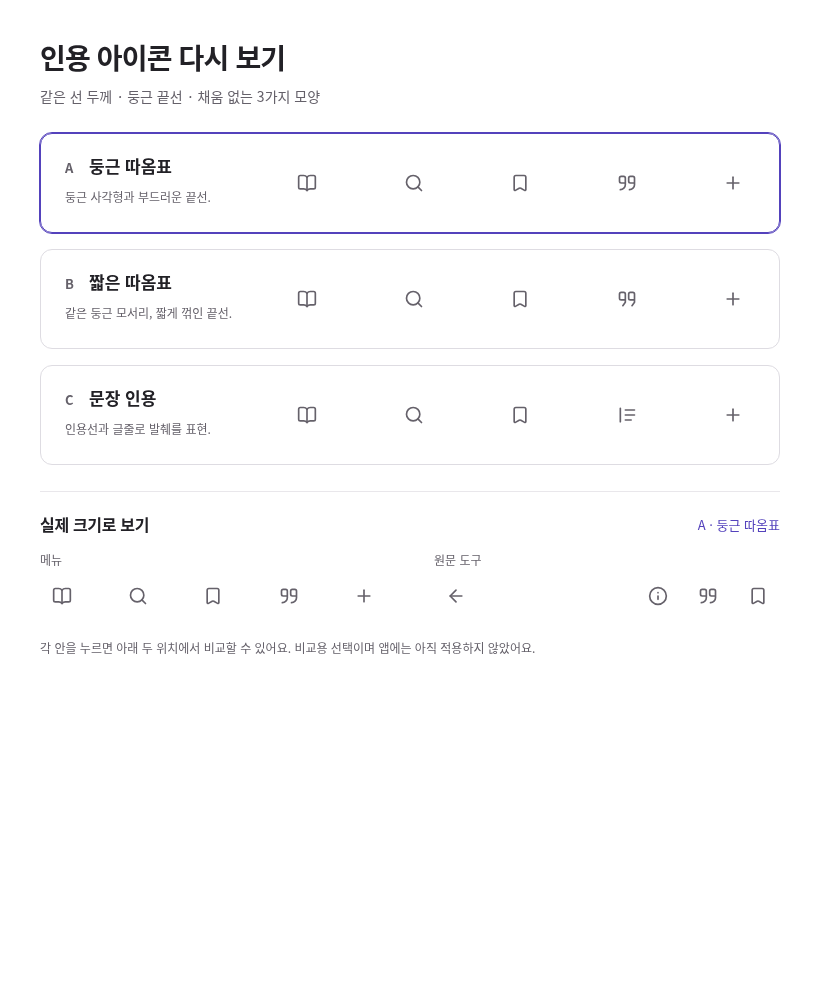
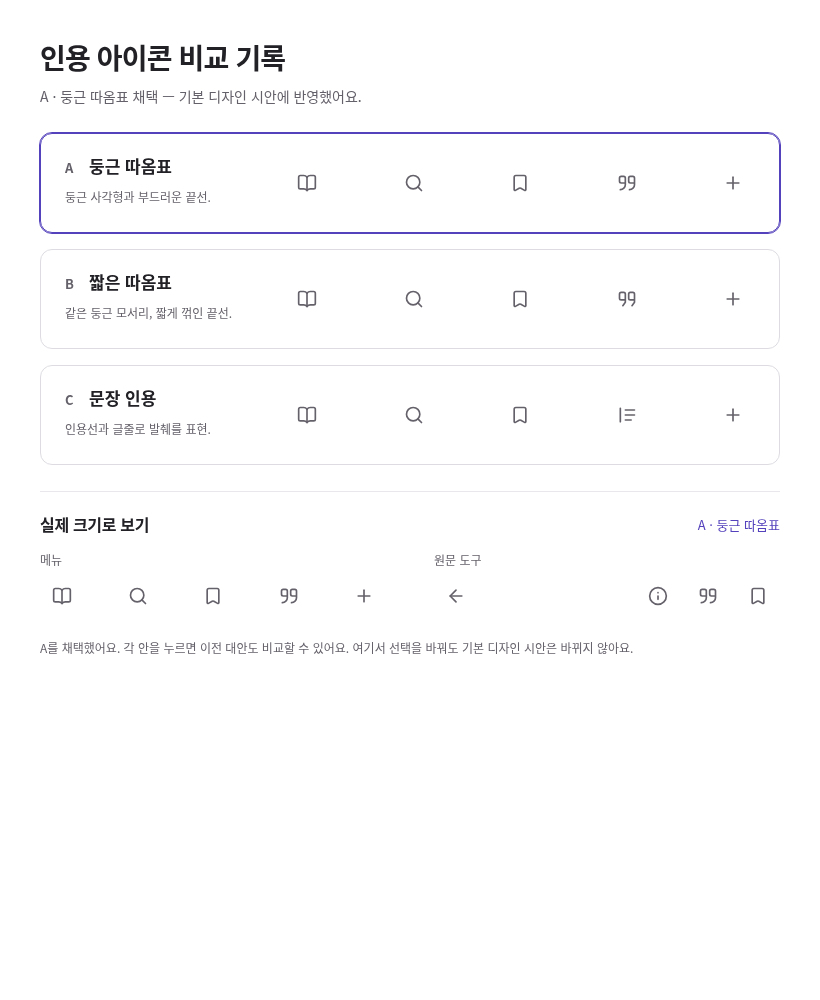
Apply the approved rounded quote across the design preview

Changed region(s): [[0.061, 0.62, 0.7622, 0.651], [0.061, 0.031, 0.4268, 0.124]]

diff --git a/assets/design-social/ui.js b/assets/design-social/ui.js
@@ -7,7 +7,7 @@
   const m = { concept: concepts.includes(q.get('concept')) ? q.get('concept') : 'color', view: q.get('view') === 'reader' ? 'reader' : 'feed', state: states.includes(q.get('state')) ? q.get('state') : 'normal', query: '', origin: '', topic: '', tab: 'all', saved: new Set(), excerpts: [], expanded: new Set(), sourceId: data.sources[0].id, peekId: data.sources[0].id, selected: data.excerpt, note: '', excerptTopic: '', scroll: 0, returnId: '', composing: false, filtersOpen: false, excerptOpen: false, sourceOpen: false, sourceScroll: 0, peekOpen: false, panelScroll: 0, panelOpener: '', peekOpener: '' };
   const $ = s => document.querySelector(s);
   const esc = s => String(s ?? '').replace(/[&<>"']/g, c => ({ '&': '&amp;', '<': '&lt;', '>': '&gt;', '"': '&quot;', "'": '&#39;' }[c]));
-  // Lucide 1.51.0, fixed source and ISC/Feather MIT notices: vendor/lucide/.
+  // Lucide 1.51.0 except Haedo's approved quote A; provenance: vendor/lucide/.
   const iconPaths = {
     book: '<path d="M12 5v16" /><path d="M20.001 19A2 2 0 0022 17V5a2 2 0 00-1.999-2L16 3.002A5 5 0 0012 5a5 5 0 00-4-2H4a2 2 0 00-2 2v12a2 2 0 001.999 2H8a5 5 0 014 2 5 5 0 014-2z" />',
     search: '<path d="m21 21-4.34-4.34" /><circle cx="11" cy="11" r="8" />',
@@ -15,7 +15,7 @@
     link: '<path d="M10 13a5 5 0 0 0 7.54.54l3-3a5 5 0 0 0-7.07-7.07l-1.72 1.71" /><path d="M14 11a5 5 0 0 0-7.54-.54l-3 3a5 5 0 0 0 7.07 7.07l1.71-1.71" />',
     plus: '<path d="M5 12h14" /><path d="M12 5v14" />',
     back: '<path d="m12 19-7-7 7-7" /><path d="M19 12H5" />',
-    quote: '<path d="M16 3a2 2 0 0 0-2 2v6a2 2 0 0 0 2 2 1 1 0 0 1 1 1v1a2 2 0 0 1-2 2 1 1 0 0 0-1 1v2a1 1 0 0 0 1 1 6 6 0 0 0 6-6V5a2 2 0 0 0-2-2z" /><path d="M5 3a2 2 0 0 0-2 2v6a2 2 0 0 0 2 2 1 1 0 0 1 1 1v1a2 2 0 0 1-2 2 1 1 0 0 0-1 1v2a1 1 0 0 0 1 1 6 6 0 0 0 6-6V5a2 2 0 0 0-2-2z" />',
+    quote: '<path d="M10 12H5a2 2 0 0 1-2-2V6a2 2 0 0 1 2-2h3a2 2 0 0 1 2 2v8a6 6 0 0 1-6 6M21 12h-5a2 2 0 0 1-2-2V6a2 2 0 0 1 2-2h3a2 2 0 0 1 2 2v8a6 6 0 0 1-6 6"/>',
     arrow: '<path d="M5 12h14" /><path d="m12 5 7 7-7 7" />',
     close: '<path d="M18 6 6 18" /><path d="m6 6 12 12" />',
     filter: '<path d="M10 5H3" /><path d="M12 19H3" /><path d="M14 3v4" /><path d="M16 17v4" /><path d="M21 12h-9" /><path d="M21 19h-5" /><path d="M21 5h-7" /><path d="M8 10v4" /><path d="M8 12H3" />',

diff --git a/quote-sample.html b/quote-sample.html
@@ -11,13 +11,13 @@
 </head>
 <body data-concept="thread">
   <main class="q-board">
-    <header class="q-heading"><h1>인용 아이콘 다시 보기</h1><p>같은 선 두께 · 둥근 끝선 · 채움 없는 3가지 모양</p></header>
+    <header class="q-heading"><h1>인용 아이콘 비교 기록</h1><p>A · 둥근 따옴표 채택 — 기본 디자인 시안에 반영했어요.</p></header>
     <div class="q-grid" id="quoteOptions" role="group" aria-label="따옴표 시안 선택"></div>
     <section class="q-preview" aria-labelledby="quotePreviewTitle">
       <div class="q-preview-heading"><h2 id="quotePreviewTitle">실제 크기로 보기</h2><p id="quoteChoice" role="status"></p></div>
       <div class="q-contexts"><div><p>메뉴</p><div class="q-live-nav" id="quoteNav"></div></div><div><p>원문 도구</p><div class="q-live-tools" id="quoteTools"></div></div></div>
     </section>
-    <p class="q-note">각 안을 누르면 아래 두 위치에서 비교할 수 있어요. 비교용 선택이며 앱에는 아직 적용하지 않았어요.</p>
+    <p class="q-note">A를 채택했어요. 각 안을 누르면 이전 대안도 비교할 수 있어요. 여기서 선택을 바꿔도 기본 디자인 시안은 바뀌지 않아요.</p>
   </main>
   <script src="assets/design-social/quote-options.js"></script>
 </body>

diff --git a/docs/design-review/quote-options.md b/docs/design-review/quote-options.md
@@ -1,5 +1,7 @@
 # 인용 아이콘 — 윤곽선 3안
 
+**선택 완료: A · 둥근 따옴표.** 사용자의 “A로 가자”에 따라 `social-sample.html`의 내 발췌 메뉴, 자료 목록 발췌 버튼, 원문 도구에 같은 A 도형을 반영했다. 공통 기준은 [DESIGN.md](../../DESIGN.md)에 기록했다. 운영 앱의 공개 배포를 뜻하지 않는다.
+
 2026-10-04 KST. 크기를 맞춘 이전 후보도 주변 아이콘과 스타일이 다르다는 사용자 피드백을 반영했다. 이전 후보의 채움·점·가는 쉼표는 책·검색·북마크의 일정한 윤곽선과 무게가 달랐다. SVG의 영역만 맞추는 것으로는 해결되지 않았다.
 
 ![주변 아이콘과 같은 윤곽선으로 다시 그린 인용 아이콘 3안](evidence/quotes/outline-options.png)
@@ -8,11 +10,11 @@
 
 | 안 | 형태 | 판단 |
 | --- | --- | --- |
-| **A · 둥근 따옴표 — 추천** | 둥근 사각 윤곽과 한 줄로 이어지는 곡선 | 따옴표의 뜻을 유지하면서 주변의 둥근 선형 아이콘과 가장 자연스럽게 이어짐 |
+| **A · 둥근 따옴표 — 사용자 선택** | 둥근 사각 윤곽과 한 줄로 이어지는 곡선 | 따옴표의 뜻을 유지하면서 주변의 둥근 선형 아이콘과 가장 자연스럽게 이어짐 |
 | B · 짧은 따옴표 | 같은 사각 윤곽과 짧게 꺾인 끝선 | 곡선보다 단정한 형태를 원할 때 비교할 대안 |
 | C · 문장 인용 | 왼쪽 인용선과 세 개의 글줄 | 따옴표 자체를 쓰지 않고 발췌한 문장을 나타내는 대안. 실제 사용자에게 의미가 명확한지는 별도 확인 필요 |
 
-`npm run dev` 후 `quote-sample.html`에서 각 안을 누르면 메뉴·원문 도구의 미리보기가 함께 바뀐다. A의 초기 선택과 추천은 사용자 확정이나 앱 적용을 뜻하지 않는다. [1440px](evidence/quotes/board-1440.png), [820px](evidence/quotes/board-820.png), [390px](evidence/quotes/board-390.png)에서 볼 수 있다. [이전 4안](https://github.com/wonchance-art/life-haedo/blob/e30e296b901ffe28b500d93a38ef87d876c81dff/docs/design-review/quote-options.md)은 비교 이력이다.
+`npm run dev` 후 `quote-sample.html`에서 각 안을 누르면 메뉴·원문 도구의 미리보기가 함께 바뀐다. 채택한 A는 기본 디자인 시안에 고정하며 비교 화면에서 B/C를 눌러도 바뀌지 않는다. [1440px](evidence/quotes/board-1440.png), [820px](evidence/quotes/board-820.png), [390px](evidence/quotes/board-390.png)에서 볼 수 있다. [이전 4안](https://github.com/wonchance-art/life-haedo/blob/e30e296b901ffe28b500d93a38ef87d876c81dff/docs/design-review/quote-options.md)은 비교 이력이다.
 
 새 후보는 직접 작성한 단순 SVG다. 기존 Lucide 따옴표의 복잡한 외곽과 앞선 채움형을 그대로 확대하지 않고, 주변 도형의 선·모서리를 따라 다시 구성했다. 주변 아이콘은 [Lucide 1.51.0 로컬 원본과 고지](../../vendor/lucide/README.md)를 재사용한다. 새 라이브러리나 외부 요청은 없다.
 
@@ -20,4 +22,5 @@
 
 - **동작:** Linux Chromium의 1440·820·390px에서 3안 선택 총 9회와 각 폭의 Tab/Space 선택. 하나의 선택 상태, 메뉴·원문 도구 갱신, 접근 가능한 이름, 44px 이상 조작 영역, 20px 아이콘, 가로 넘침을 확인했다. 콘솔·페이지 오류와 외부 요청 0건. 정적 HTML 16/JS 32/참조 171/PWA 통과.
 - **시각:** 실제 크기의 비교표와 390px 전체 이미지를 직접 검토했다. 같은 윤곽선·색·중심과 한글 줄바꿈을 확인했으며 A를 추천한다. 이는 시각적 판단이지 사용자 선호 검증은 아니다.
-- **범위:** 비교 시안만 수정했다. 실제 Mac/iPad/iPhone 체험이나 공개 배포를 하지 않았으며 운영 앱의 인증·저장·동기화·백업·발췌 코드는 변경하지 않았다. 확인 스크립트와 이번 보고서는 `.local/design-review/quotes/`에 있다.
+- **채택 후:** A를 기본 디자인 시안에 반영하고 1440·820·390px 목록/원문 6장면의 아이콘 정렬과 발췌·담기·출처·필터·내 발췌 탐색을 확인했다. [적용 화면과 검사](icon-refinement.md)를 참고한다. 비교 페이지도 3장면·9회 선택을 다시 확인했다.
+- **범위:** 기본 디자인 시안과 비교 기록을 수정했다. 실제 Mac/iPad/iPhone 체험이나 공개 배포를 하지 않았으며 운영 앱의 인증·저장·동기화·백업·발췌 코드는 변경하지 않았다. 확인 스크립트와 이번 보고서는 `.local/design-review/quotes/`에 있다.

diff --git a/docs/design-review/icon-refinement.md b/docs/design-review/icon-refinement.md
@@ -1,8 +1,8 @@
 # 따옴표와 아이콘 정렬 보정
 
-2026-10-04 KST. 기존 시안의 각진 따옴표를 두 개의 둥근 닫는 인용부호로 바꾸고, 메뉴·원문 도구·자료 행동의 아이콘을 같은 계열로 맞췄다. 본문 배치와 기능은 그대로다.
+2026-10-04 KST. 사용자가 채택한 **A · 둥근 따옴표**를 기본 디자인 시안의 내 발췌 메뉴·목록 발췌 버튼·원문 도구에 반영했다. 아래 화면은 A를 적용한 최신 캡처다. 본문 배치와 기능은 그대로다. [선택과 비교 기록](quote-options.md).
 
-[Lucide 1.51.0](../../vendor/lucide/README.md)의 SVG 13개만 로컬로 재사용했다. 24×24 좌표계·2단위 둥근 선을 유지하고, 메뉴는 20×20px 그림을 44×44px 조작 영역의 가운데에 둔다. 선과 끝 모양을 통일하되 더하기·북마크처럼 형태 자체의 자연스러운 너비 차이는 유지한다. SVG를 block으로 배치해 글자 기준선에 따라 뜨는 여지를 없애고 검색 입력의 돋보기도 수직 중앙에 맞췄다.
+따옴표는 직접 작성한 A 도형이며 나머지 12개는 [Lucide 1.51.0](../../vendor/lucide/README.md)의 SVG를 로컬로 재사용한다. 기존 원본 13개와 라이선스는 보존한다. 24×24 좌표계·2단위 둥근 선을 유지하고, 메뉴는 20×20px 그림을 44×44px 조작 영역의 가운데에 둔다. 선과 끝 모양을 통일하되 더하기·북마크처럼 형태 자체의 자연스러운 너비 차이는 유지한다. SVG를 block으로 배치해 글자 기준선에 따라 뜨는 여지를 없애고 검색 입력의 돋보기도 수직 중앙에 맞췄다.
 
 - [하단 메뉴 가까이 보기](evidence/icons/navigation-detail.png)
 - [읽기 도구 가까이 보기](evidence/icons/reader-tools-detail.png) — 북마크를 선택한 상태
@@ -11,4 +11,4 @@
 
 Linux Chromium에서 세 화면 폭의 목록/원문 6장면을 확인했다. 표시된 아이콘의 20px 영역·버튼 중심 일치·44px 조작 영역·접근 가능한 이름·선 굵기·SVG 도형의 경계 내 배치를 측정했다. 각 폭에서 키보드로 발췌 열기·닫기와 초점 복귀, 담기, 출처·필터 열기/Escape 닫기, 인용부호 메뉴로 내 발췌 이동을 확인했다. 콘솔/페이지 오류·외부 요청·가로 넘침은 0건이다. 대표 화면과 메뉴·도구 확대 캡처는 직접 눈으로도 검토했다. 확인용 스크립트와 보고서는 `.local/design-review/icons/`에 둔다.
 
-정적 HTML 15/JS 31/참조 167/PWA 검사도 통과했다. 원본 SVG·라이선스 파일의 해시와 임베드한 도형을 고정 원본과 대조했다. 기존 03 전체 행위 검사를 다시 실행했다고 보고하지 않는다. 실제 Apple 기기·운영 배포는 이번 확인 범위 밖이다. 로컬 실행은 `npm run dev` 후 `social-sample.html`에서 확인한다.
+정적 HTML 16/JS 32/참조 171/PWA 검사도 통과했다. 적용한 A와 비교 화면의 A 도형이 같은지 대조했다. 원본 SVG·라이선스는 변경하지 않았으며 이전의 원본 해시 검사를 이번에 반복한 것으로 보고하지 않는다. 기존 03 전체 행위 검사는 다시 실행하지 않았다. 실제 Apple 기기·운영 배포는 이번 확인 범위 밖이다. 로컬 실행은 `npm run dev` 후 `social-sample.html`에서 확인한다.

diff --git a/DESIGN.md b/DESIGN.md
@@ -19,9 +19,9 @@
 
 ## 아이콘과 접근성
 
-사용자는 나머지 아이콘에 긍정적인 반응을 보였지만 따옴표의 스타일이 어울리지 않는다고 지적했다. 크기 보정만으로 해결되지 않아 채움·점·과장된 꼬리를 덜고 [윤곽선 3개 후보](docs/design-review/quote-options.md)를 다시 비교한다. 선 두께·둥근 모서리·내부 여백까지 주변 아이콘과 함께 검토한다. `quote-sample.html`은 비교 화면이고 기본 시안에 후보를 자동 적용하지 않는다.
+사용자가 **A · 둥근 따옴표**를 채택했다. 기본 디자인 시안의 내 발췌 메뉴·자료 목록의 발췌 버튼·원문 도구에 같은 A 도형을 사용한다. 둥근 사각 윤곽과 한 줄로 이어지는 끝선을 유지하며 채움·점·별도 글꼴 문양으로 바꾸지 않는다. [3안 비교 기록](docs/design-review/quote-options.md)과 `quote-sample.html`은 남겨 두되 비교 화면의 선택이 기본 시안의 도형을 바꾸지는 않는다.
 
-책·돋보기·북마크·따옴표·더하기·뒤로·정보·필터는 [Lucide 1.51.0의 로컬 SVG](vendor/lucide/README.md)를 재사용한다. 같은 24×24 좌표계와 2단위 둥근 선을 유지하고, 메뉴는 20×20px 그림을 44×44px 조작 영역의 중앙에 놓는다. 그림을 가로·세로로 늘리거나 글꼴의 문양으로 대체하지 않는다. 글자 옆 보조 아이콘은 16/18px로 구분한다. 화면에서 메뉴 이름을 계속 노출하지 않더라도 `aria-label`은 유지한다. hover와 키보드 초점에는 짧은 도움말을 표시하고 Escape로 닫는다. 모바일 조작은 hover를 요구하지 않는다. 아이콘만 보고 뜻을 이해하는지의 실제 사용자 체험은 별도 확인 사항이다.
+따옴표는 해도의 A 도형이며 책·돋보기·북마크·더하기·뒤로·정보·필터는 [Lucide 1.51.0의 로컬 SVG](vendor/lucide/README.md)를 재사용한다. 같은 24×24 좌표계와 2단위 둥근 선을 유지하고, 메뉴는 20×20px 그림을 44×44px 조작 영역의 중앙에 놓는다. 그림을 가로·세로로 늘리거나 글꼴의 문양으로 대체하지 않는다. 글자 옆 보조 아이콘은 16/18px로 구분한다. 화면에서 메뉴 이름을 계속 노출하지 않더라도 `aria-label`은 유지한다. hover와 키보드 초점에는 짧은 도움말을 표시하고 Escape로 닫는다. 모바일 조작은 hover를 요구하지 않는다. 아이콘만 보고 뜻을 이해하는지의 실제 사용자 체험은 별도 확인 사항이다.
 
 같은 SVG 영역만으로 크기가 맞는다고 판단하지 않는다. 실제 메뉴 크기에서 주변 아이콘과 도형의 눈에 보이는 높이·너비·중심을 함께 비교한다.
 

diff --git a/vendor/lucide/README.md b/vendor/lucide/README.md
@@ -4,7 +4,7 @@
 - Checked: 2026-10-04 Asia/Seoul. GitHub latest release still resolved to this tag/commit.
 - License: [ISC and the included Feather MIT notices](LICENSE). Both are retained in full.
 - Only the 13 original SVGs in `icons/` are retained, with SHA-256 values in [UPSTREAM.json](UPSTREAM.json). No icon runtime or package dependency is installed.
-- `assets/design-social/ui.js` embeds their inner SVG geometry. The shared renderer retains the 24×24 viewBox, 2-unit rounded stroke and uses a 20×20 CSS pixel menu icon centered in a 44×44 target. Text-adjacent icons may use 16/18px. Geometry is neither stretched nor replaced with font glyphs.
+- `assets/design-social/ui.js` embeds 12 upstream geometries. The quote is now Haedo's original **A · 둥근 따옴표**, selected by the user; see [the decision](../../docs/design-review/quote-options.md). The original Lucide quote remains here as a provenance record, not the active preview icon. The shared renderer retains the 24×24 viewBox, 2-unit rounded stroke and uses a 20×20 CSS pixel menu icon centered in a 44×44 target. Text-adjacent icons may use 16/18px. Geometry is neither stretched nor replaced with font glyphs.
 - All copies here are upstream originals. Updating embedded geometry requires updating this source record and license notices together. The existing bookmark fill and brief save animation are app states, not changes to the original SVG.
 
-This subset replaces the preview's hand-drawn paths because its quote is recognizable and its shared proportions, rounded corners and baseline are more consistent. The standalone prototype continues to load icons locally; there are no browser requests to Lucide or a CDN.
+This subset supplies the preview's shared proportions, rounded corners and baseline. The selected Haedo quote follows these conventions. The standalone prototype continues to load icons locally; there are no browser requests to Lucide or a CDN.

diff --git a/docs/design-review/README.md b/docs/design-review/README.md
@@ -4,7 +4,7 @@
 
 ## 최신 시안 03
 
-**인용 아이콘은 다시 비교 중입니다. [윤곽선 3안 보기](quote-options.md)** — 주변 아이콘의 선·모서리·여백에 맞춰 다시 그렸습니다.
+**인용 아이콘은 A · 둥근 따옴표로 확정했습니다. [선택과 비교 기록](quote-options.md)** — 기본 디자인 시안의 메뉴·자료 목록·원문 도구에 반영했습니다.
 
 따옴표와 아이콘 정렬을 추가로 다듬었습니다. **[최신 아이콘과 화면](icon-refinement.md)**에서 확인할 수 있습니다. 아래 03 기본 캡처는 아이콘 보정 전의 배치 기록입니다.
 
